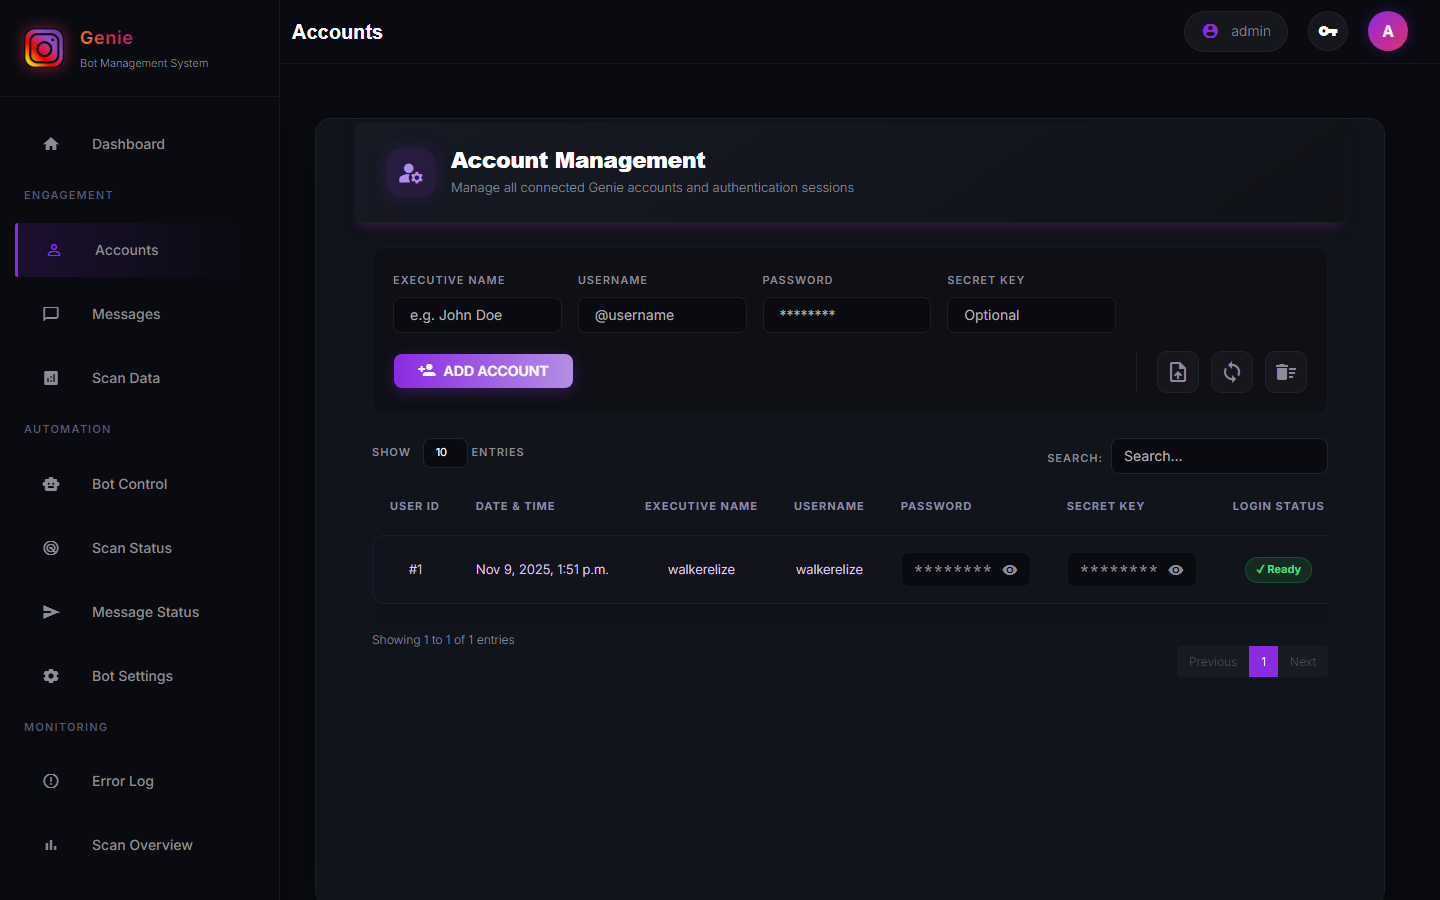
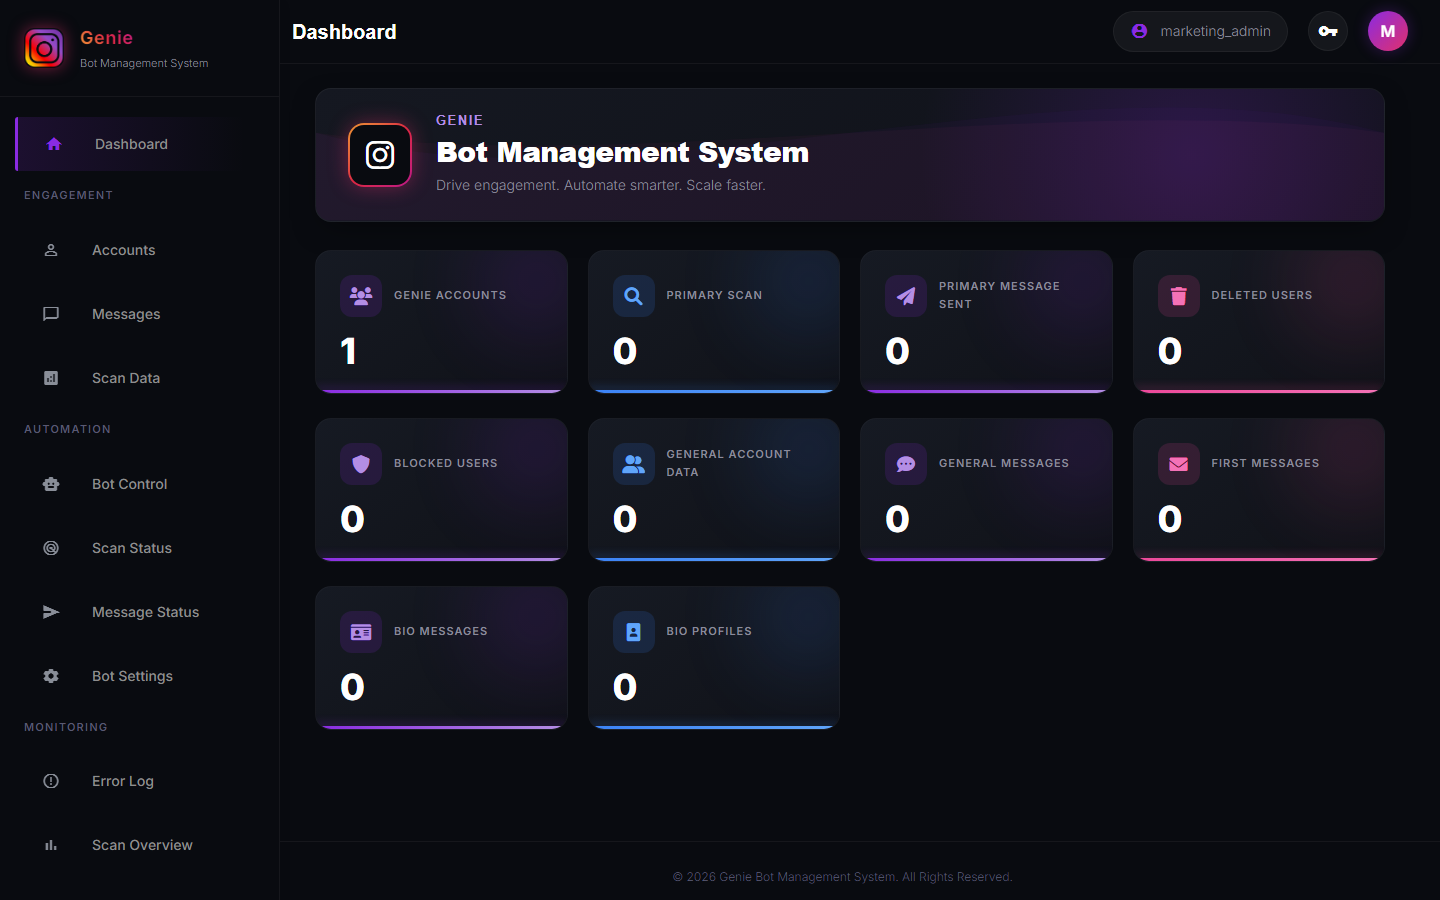
Enhance README features and add full dashboard screenshots

diff --git a/README.md b/README.md
@@ -1,66 +1,83 @@
 <div align="center">
   <img src="https://img.icons8.com/nolan/96/instagram-new.png" alt="InstaAdmin Logo" width="80" height="80">
-  <h1>InstaAdmin: Advanced Social Media Marketing & Automation Platform</h1>
+  <h1>InstaAdmin: Enterprise Social Media Automation Engine</h1>
   <p><strong>Scale. Automate. Dominate.</strong></p>
+  <p><i>The ultimate control center for intelligent, large-scale marketing campaigns.</i></p>
 </div>
 
 <br/>
 
-## 🚀 Overview
-**InstaAdmin** is a premium, enterprise-grade marketing automation dashboard designed for large-scale social media operations. Built with a highly responsive, modern **Dark Neon Glassmorphism UI**, the system provides unparalleled control over targeted campaigns, bot networks, and lead generation. 
+## 🚀 System Overview
+**InstaAdmin** is a highly proprietary, enterprise-grade social media marketing automation platform. Built with a decoupled **Django + FastAPI** architecture, it serves as the command center for orchestrating massive fleets of automated accounts (up to 125+ concurrent bots). 
 
-*Note: This repository serves as a showcase of the UI and system capabilities. The core proprietary engine and source code are kept strictly confidential.*
+Featuring a modern, meticulously crafted **Dark Neon Glassmorphism UI**, InstaAdmin provides a seamless and visually stunning experience for managing complex workflows, parsing thousands of user bios, and executing hyper-targeted outreach campaigns at scale.
 
----
-
-## 🔥 Key Capabilities
-
-### 1. 🤖 Bot Fleet Management
-- **Centralized Account Hub**: Monitor dozens or hundreds of accounts in real-time.
-- **Health Checks**: Instant status indicators (`✓ Ready` / `✗ Required`) for auth states and proxy connectivity.
-- **Settings Override**: Configure interaction limits, delays, and fail-safes globally or per-account.
-
-### 2. 🎯 Precision Targeting & Campaigns
-- **Targeted Outreach**: Deploy custom messaging campaigns with dynamic variables to specific audience segments.
-- **General Messaging**: Broadcast announcements or promos seamlessly across your network.
-- **Seen Status Tracking**: Real-time read-receipt and engagement monitoring.
-
-### 3. 🧠 Smart Lead Scraping
-- **Bio Scanning Engine**: Automatically parse and extract keywords, emails, or links from user bios at scale.
-- **General Scanning**: Build high-quality lead lists by scraping followers, hashtags, and geo-locations.
-
-### 4. 💬 Intelligent Comment Bot
-- **Auto-Responder**: Deploy context-aware auto-replies on trending posts.
-- **Sentiment Analysis**: Filter and respond based on positive/negative keyword triggers.
+*Disclaimer: This repository serves strictly as a frontend and feature portfolio. The core proprietary execution engine, AI integration logic, and headless scraping models are kept completely confidential.*
 
 ---
 
-## 💻 System Interface Showcase
+## 🔥 Enterprise Capabilities
 
-Our system is built not just for performance, but for an exceptional user experience. Say goodbye to clunky, legacy admin panels.
+### 1. 🤖 Bot Fleet & Instance Orchestration
+- **Massive Concurrency**: Manages and schedules 1-125 independent account runners simultaneously via FastAPI and asynchronous job queues.
+- **Advanced Device Fingerprinting**: Every bot instance runs with isolated User-Agents, distinct Device-IDs, isolated Session PKL files, and dynamically jittered startup delays to completely circumvent platform anti-bot measures.
+- **Fleet Health Monitoring**: Live dashboard tracking proxy health, authentication statuses (`✓ Ready` / `✗ Required`), and interaction limits.
 
-### 🔐 Secure Login Portal
-*A completely immersive, split-screen glassmorphism design that emphasizes security and premium marketing tools.*
+### 2. 🎯 Hyper-Targeted AI Campaigns (ChatGPT Integrated)
+- **Dynamic Message Generation**: Deep integration with LLMs (e.g., ChatGPT) to generate highly contextual, varied, and personalized outreach messages based on the scraped bio details of targets.
+- **Intelligent Flow Control**: Bypasses spam filters with dynamically varied prompt temperatures, avoiding fixed marketing copy and ensuring natural conversation flow.
+- **Seen Status Tracking**: Real-time tracking of message read-receipts and engagement, feeding back into campaign analytics.
+
+### 3. 🧠 Deep Audience Scraping & Lead Gen
+- **Bio Scanning Engine**: Automatically parses large swaths of users to extract emails, websites, keywords, and specific profile traits.
+- **General Scraping**: Harvest user lists from competitors, specific hashtags, or geographical locations with extreme efficiency.
+- **Database Centralization**: All scraped leads are piped into a centralized MySQL/SQLite warehouse for campaign filtering.
+
+### 4. 💬 Engagement Automation
+- **Comment Bot**: Identifies trending posts within niches and deploys contextually relevant auto-replies.
+- **Auto-Responder**: Filters incoming messages based on sentiment and keyword triggers, managing initial follow-ups seamlessly.
+
+---
+
+## 💻 Interface Showcase
+
+InstaAdmin is built for performance but designed like a premium SaaS product. The interface eliminates eye strain for extended monitoring sessions and uses an intuitive layout to handle complex data density.
+
+### 🔐 Secure Authentication Portal
+*Immersive, split-screen glassmorphism design emphasizing the system's focus on enterprise automation and security.*
 <p align="center">
   <img src="./screenshots/login.png" alt="InstaAdmin Login Screen" width="800" style="border-radius: 12px; border: 1px solid #8A2BE2;">
 </p>
 
-### 🎛️ Real-time Operations Dashboard
-*A sleek, dark-neon interface reducing eye strain while providing maximum data density and control.*
+### 🎛️ Operations Dashboard (Real-time Analytics)
+*The central hub showing system metrics, queue statuses, and overall campaign health.*
 <p align="center">
-  <img src="./screenshots/dashboard.png" alt="InstaAdmin Dashboard Interface" width="800" style="border-radius: 12px; border: 1px solid #8A2BE2;">
+  <img src="./screenshots/dashboard.png" alt="InstaAdmin Dashboard" width="800" style="border-radius: 12px; border: 1px solid #8A2BE2;">
+</p>
+
+### 👥 Bot Fleet Manager (Account List)
+*Manage hundreds of independent accounts, monitor proxy configurations, and review active session states.*
+<p align="center">
+  <img src="./screenshots/account_list.png" alt="InstaAdmin Fleet Manager" width="800" style="border-radius: 12px; border: 1px solid #8A2BE2;">
+</p>
+
+### 🎯 Targeted Campaign Configuration
+*Set up precise outreach strategies, configure LLM prompts, and manage target demographics.*
+<p align="center">
+  <img src="./screenshots/campaigns.png" alt="InstaAdmin Campaigns" width="800" style="border-radius: 12px; border: 1px solid #8A2BE2;">
 </p>
 
 ---
 
-## 🛡️ Enterprise Security & Architecture
-- **Data Encryption**: Advanced encryption protocols for all stored credentials and proxies.
-- **Audit Ready**: Comprehensive error logging and action tracing for network health diagnostics.
-- **Headless Operation**: Built to interface with headless browser clusters for undetectable automation.
+## 🛡️ Architecture & Security
+- **Django Administration**: Serves the UI, handles user authentication, and provides the CRM logic.
+- **FastAPI Engine**: High-performance backend orchestrating the actual Python-based bot scripts (`message.py`, `bio_scraper.py`, etc.).
+- **Headless Execution**: Built to interface with Chromium/Playwright for completely undetectable automation.
+- **End-to-End Encryption**: Secure storage for all proxies and account credentials.
 
 ---
 
 ## 📬 Licensing & Inquiries
-Interested in utilizing the InstaAdmin platform or commissioning a custom automation infrastructure for your business? 
+Interested in deploying InstaAdmin or commissioning a custom automation infrastructure tailored to your brand's growth needs? 
 
-**Contact us to discuss tailored enterprise solutions.**
+**Contact us to discuss enterprise solutions and licensing opportunities.**